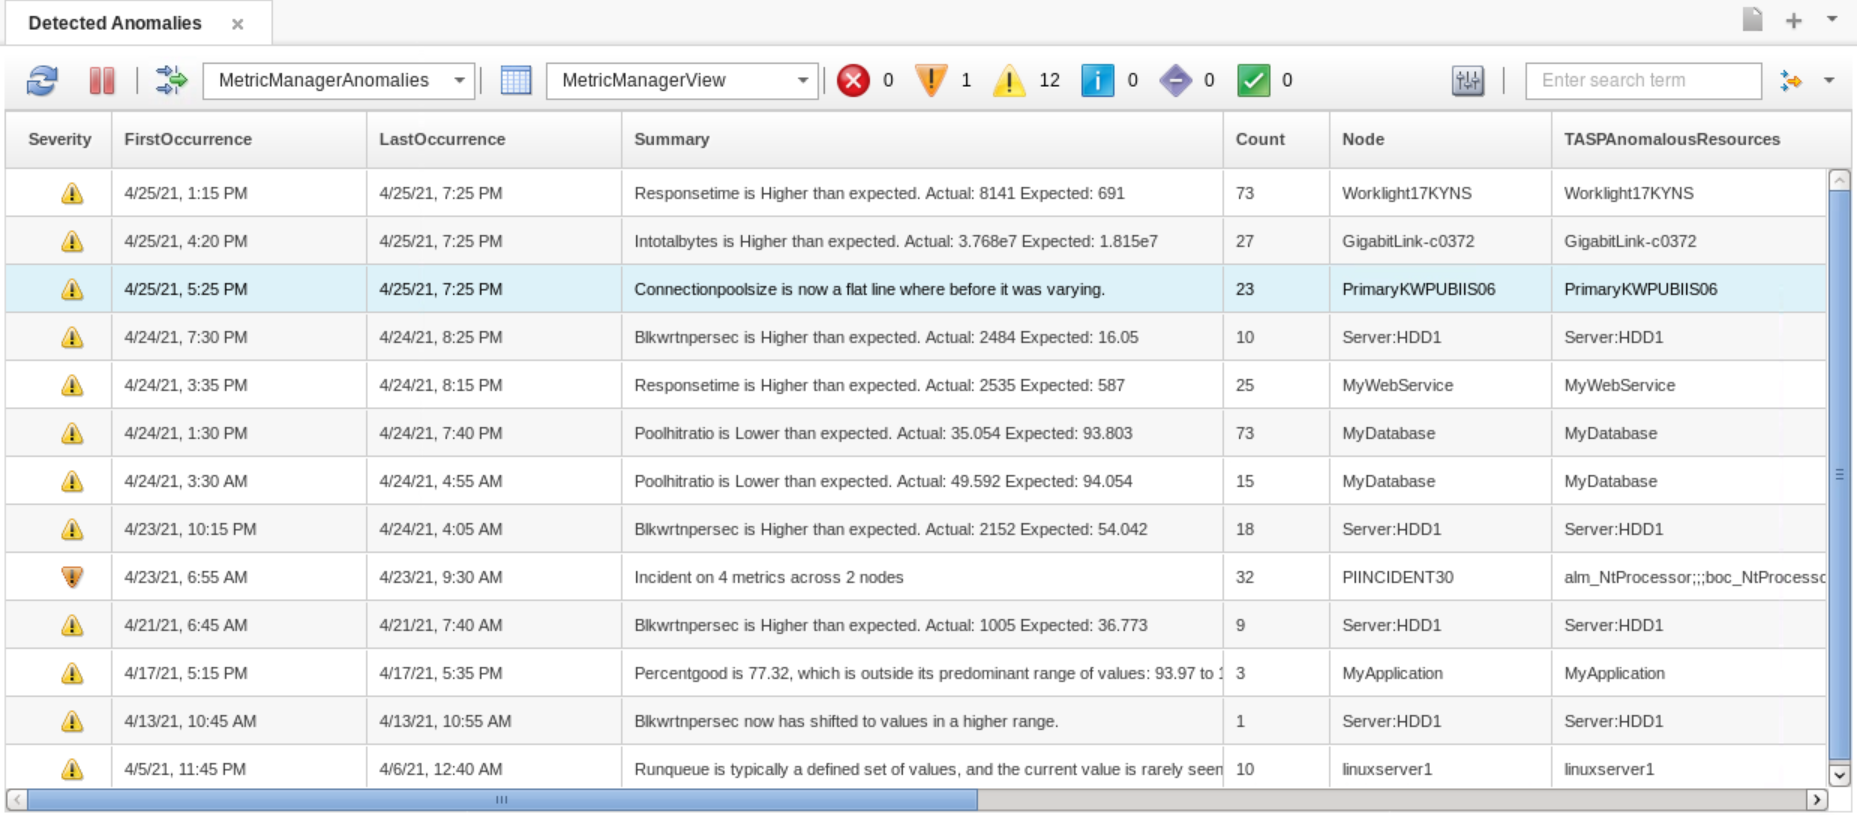
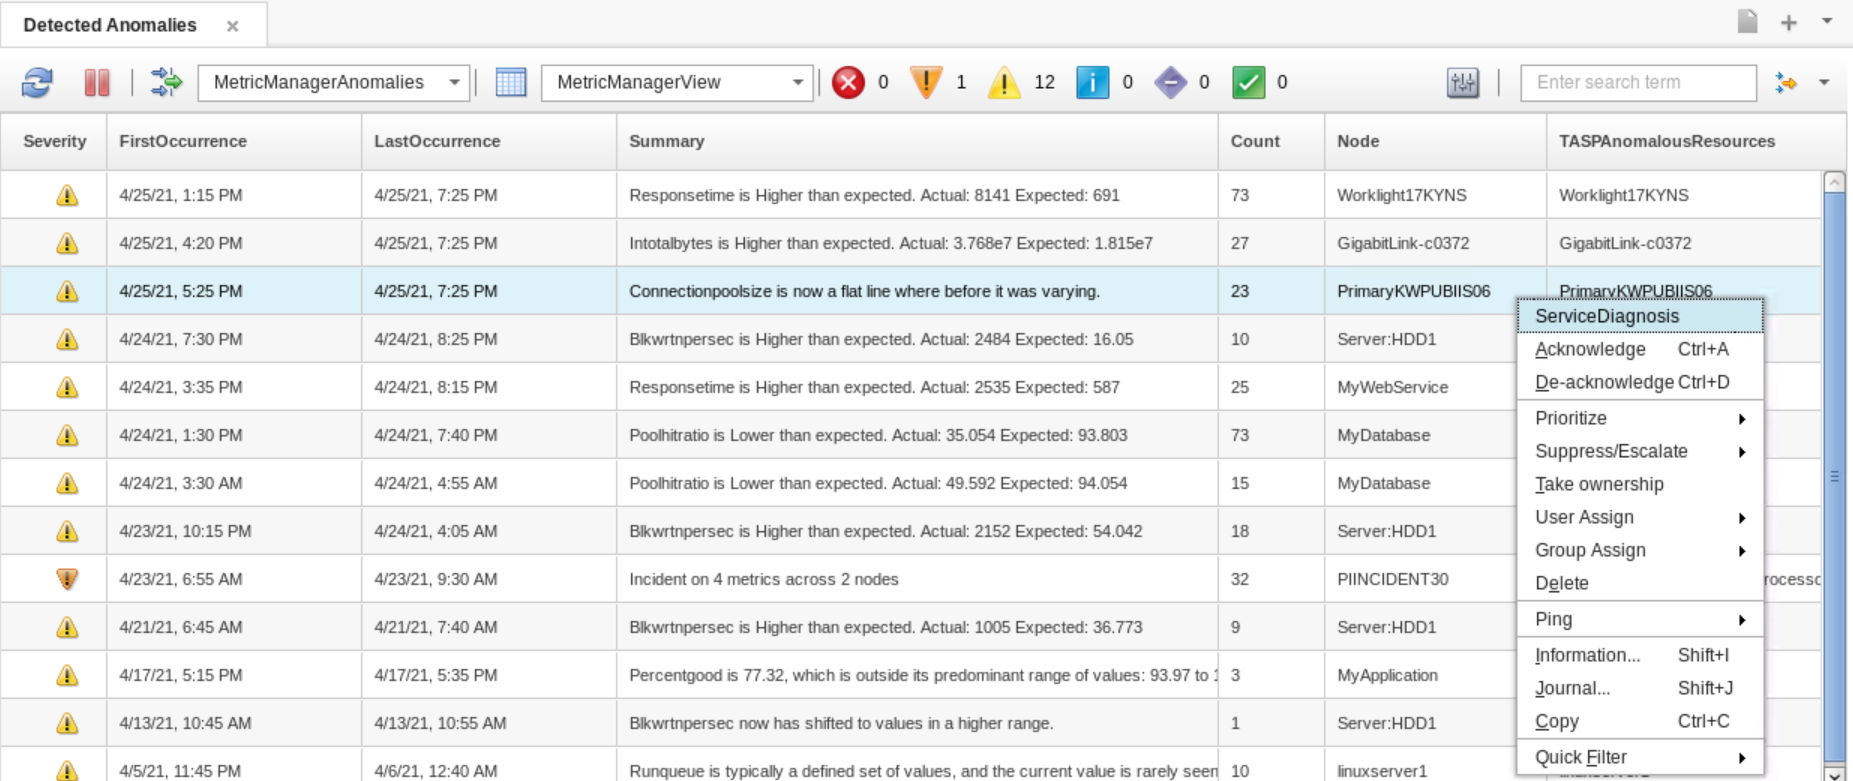
MM Update 5 May

Changed region(s): [[0.0, 0.0, 1.0, 1.0]]

diff --git a/mm/uc2/README.md b/mm/uc2/README.md
@@ -17,7 +17,7 @@ The data for this use case is from a customer when the connections to their data
 #### The lab exercise.
 Close your current tab from the previous use case.   Click the Flag icon (for incidents) from the menu strip on the right.  Select `Detected Anomalies` menu item.  If you are familiar with Watson AIOps Event Viewer, this is the `Event Viewer` page with the `MetricManagerAnomalies` Filter and `MetricManagerView` View already preselected. 
 
-<img src="./images/UC20.png" alt="Watson AIOps Metric Manager" width="500" align="center"/>
+<img src="./images/UC20.png" alt="Watson AIOps Metric Manager" width="900" align="center"/>
 <br>
 
 Observe:
@@ -26,9 +26,32 @@ Observe:
 - Check the list for individual anomalies discovered by Predictive Insights.You can see when an anomaly has started and finished occurring in `FirstOccurrence` and `LastOccurrence` columns. `Summary` column describes the anomaly. `Count` shows how many times the anomaly has occurred. Columns like `Node`, `AnomalousResource`, `AnomalousMetric`, `Direction` provide additional information on the anomaly.
 - There is one alert with severity `Major`. Major anomalies represent consolidated alarms found by Metric Manager. In the `Summary` column you can see the type of consolidation and how many metrics or nodes are involved.
 
+Select the alert with Summary `Connectionpoolsize is now a flat line where before it was varying` and Node `PrimaryKWPUBIIS06`, right click, and select __ServiceDiagnosis__.
 
-<img src="./images/UC21.png" alt="Watson AIOps Metric Manager" width="500" align="center"/>
-<img src="./images/UC22.png" alt="Watson AIOps Metric Manager" width="500" align="center"/>
-<img src="./images/UC23.png" alt="Watson AIOps Metric Manager" width="500" align="center"/>
-<img src="./images/UC24.png" alt="Watson AIOps Metric Manager" width="500" align="center"/>
-<img src="./images/UC25.png" alt="Watson AIOps Metric Manager" width="500" align="center"/>
+<img src="./images/UC21.png" alt="Watson AIOps Metric Manager" width="900" align="center"/>
+<br>
+
+You will see the following graph:
+
+<img src="./images/UC22.png" alt="Watson AIOps Metric Manager" width="900" align="center"/>
+<br>
+Observe:
+- The line used to go up and down and then hit a flat line, and Metric Manager hightlight the flat line in red background.
+
+We want to zoom on the diagram.  So click on the start diagram anywhere you want to see the start time, and pull to the right, until you passed the red box.  See the following diagram for approximate zoom area:
+
+<img src="./images/UC23.png" alt="Watson AIOps Metric Manager" width="900" align="center"/>
+<br>
+
+In the zoomed graph, hover your mouse on top of the flat line, and you can see that the metrics has hit the 3,200 `connection pool size`.
+
+Look at the bottom part of the page, and you can see the causal group.
+Note the `Processortime` and the `Usertime` are in the causal group, with flat line anomaly.
+Select the `Usertime` metrics.
+
+<img src="./images/UC24.png" alt="Watson AIOps Metric Manager" width="900" align="center"/>
+<img src="./images/UC25.png" alt="Watson AIOps Metric Manager" width="900" align="center"/>
+
+Observe:
+- When the `Connectionpoolsize` hit a limit of 3,200, the User processor time become starved.  This translate to **Slow Response Time**.  The metric Response time is for this particular case is not provided to Metric Manager, however you can make a conclusion that as the system has reached is maximum connection pool size, the service and users that depends on the connection has to wait for the connection to be released; this translate to poor performance.
+- Very often you do not have visibility on Connection Pool Size has reached a maximum value.  There may not be alarms generated by the normal monitoring system; making this condition hard to detect.

diff --git a/mm/uc1/README.md b/mm/uc1/README.md
@@ -1,8 +1,10 @@
 # THINK 2021, Lab:2177
 ## Build Intelligent IT Operation with IBM Cloud Pak for Watson AIOps
 ## Metric Manager
-### Use Case 1: Anomaly Dashboard
+### Use Case 1: Anomaly Dashboard and Causal Group
 
+#### Causal Group
+This use case highlight Metric Manager capabilities in creating causal group: group of KPIs that relate to each other.  This is useful in operation, as when there is a potential issue, you may want to know other factors or alerts related or caused by by the issue.  This is an area where all SREs want to know to be able to resolve potential problem quickly.
 
 #### Metric Manager Anomaly Dashboard
 

diff --git a/mm/README.md b/mm/README.md
@@ -47,9 +47,9 @@ There should already be a bookmark labeled "IBM Dashboard Application" on the fi
 
 Click on the Use Case 1 below.
 
-### [Use Case 1: Anomaly Dashboard](./uc1/)
+### [Use Case 1: Anomaly Dashboard and Causal Group](./uc1/)
 
-### [Use Case 2:](./uc2/)
+### [Use Case 2: Flat line causing Slow Response Time](./uc2/)
 
 ### [Use Case 3:](./uc3/)
 
